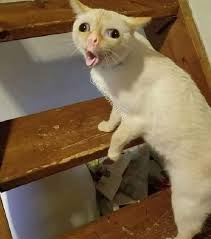
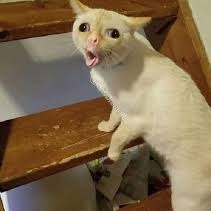
Feito a funcionalidade de clik nos mini-memes

diff --git a/script.js b/script.js
@@ -4,6 +4,11 @@ window.onload=function(){
     let botaoDois=document.getElementById('fire');
     let botaoTres=document.getElementById('earth');
     let conteinerImagem=document.getElementById('meme-image-container');
+    let espacoMeme=document.getElementById('meme-image');
+    let memeUm=document.getElementById('meme-1');
+    let memeDois=document.getElementById('meme-2');
+    let memeTres=document.getElementById('meme-3');
+    let memequatro=document.getElementById('meme-4');
             
     botaoUm.addEventListener('click', function(){
         conteinerImagem.style.borderColor='blue';
@@ -21,5 +26,21 @@ window.onload=function(){
         conteinerImagem.style.borderColor='green';
         conteinerImagem.style.borderWidth='6px';
         conteinerImagem.style.borderStyle='groove';
+    })
+
+    memeUm.addEventListener('click',function(){
+        espacoMeme.src='./images/meme-cachorro.jpg';        
+    })
+
+    memeDois.addEventListener('click',function(){
+        espacoMeme.src='./images/meme-carro.jpg';        
+    })
+
+    memeTres.addEventListener('click',function(){
+        espacoMeme.src='./images/meme-crianca.jpg';        
+    })
+
+    memequatro.addEventListener('click',function(){
+        espacoMeme.src='./images/meme-gato.jpeg';
     })
 }
